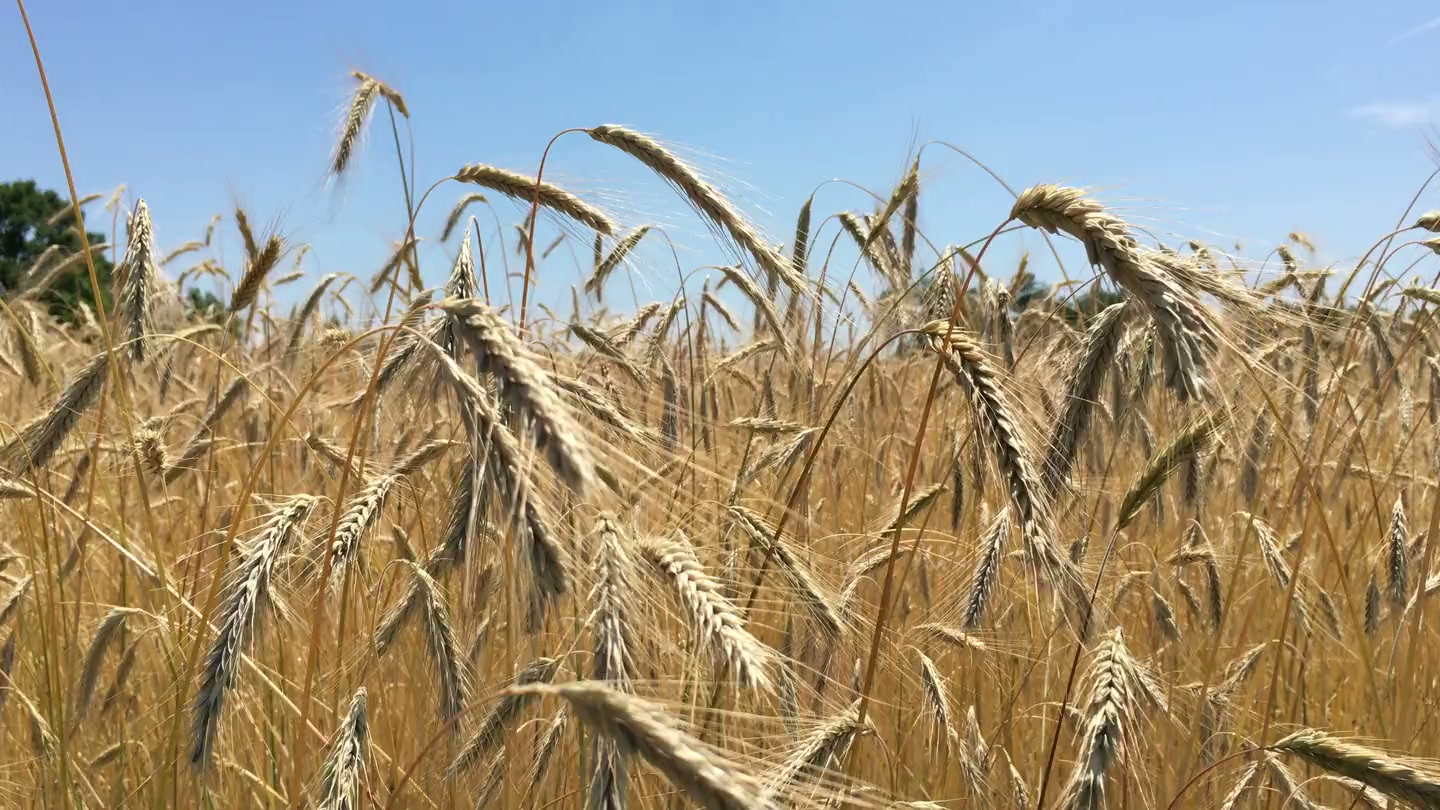
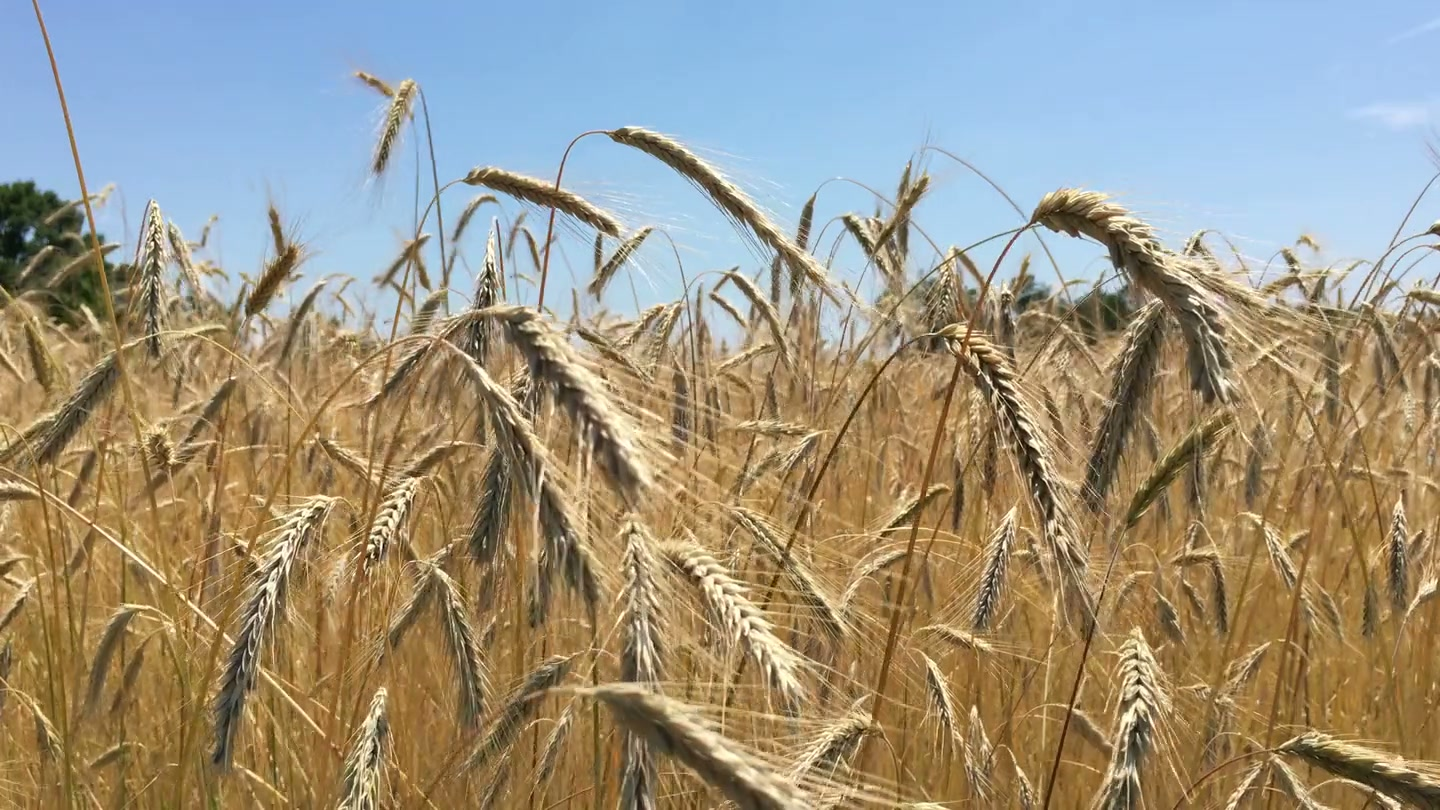
fix(preloader): synchronize SSR initial state to eliminate hydration mismatch

diff --git a/components/motion/preloader.tsx b/components/motion/preloader.tsx
@@ -68,12 +68,12 @@ function PreloaderAnimation({ onComplete }: { onComplete: () => void }) {
     }
   }, [bgLoaded, videoReady]);
 
-  // Safety fallback if video is slow or blocked
+  // Safety fallback if video is slow or blocked (2.5s)
   useEffect(() => {
     const timer = setTimeout(() => {
       setVideoReady(true);
       setStartAnimation(true);
-    }, 600);
+    }, 2500);
     return () => clearTimeout(timer);
   }, []);
 
@@ -81,7 +81,7 @@ function PreloaderAnimation({ onComplete }: { onComplete: () => void }) {
     setDims({ w: window.innerWidth, h: window.innerHeight });
   }, []);
 
-  // Wait for hero video readiness (or resolve immediately on non-video pages / mobile)
+  // Wait for hero video readiness
   useEffect(() => {
     let resolved = false;
     const resolve = () => {
@@ -97,24 +97,24 @@ function PreloaderAnimation({ onComplete }: { onComplete: () => void }) {
 
     window.addEventListener('hero-video-ready', resolve);
 
-    const checkTimer = setTimeout(() => {
+    const checkInterval = setInterval(() => {
       const video = document.querySelector('video');
       const isDesktop = window.innerWidth >= 768;
-      if (!video || !isDesktop || (video && video.readyState >= 1)) {
+      if (!isDesktop || (video && video.readyState >= 2)) {
         resolve();
       }
     }, 50);
 
-    const maxTimer = setTimeout(resolve, 800);
+    const maxTimer = setTimeout(resolve, 2500);
 
     return () => {
       window.removeEventListener('hero-video-ready', resolve);
-      clearTimeout(checkTimer);
+      clearInterval(checkInterval);
       clearTimeout(maxTimer);
     };
   }, []);
 
-  // When animation starts, schedule the dismissal
+  // When animation starts, schedule dismissal
   useEffect(() => {
     if (startAnimation) {
       const timer = setTimeout(() => {
@@ -221,7 +221,7 @@ function PreloaderAnimation({ onComplete }: { onComplete: () => void }) {
             />
           </div>
 
-          {/* STATIC CSS FALLBACK */}
+          {/* STATIC CSS FALLBACK: Instant paint during SSR / initial document load */}
           <div
             className="absolute inset-0 w-full h-full pointer-events-none transition-opacity duration-300 ease-out"
             style={{
@@ -269,15 +269,11 @@ export default function Preloader() {
 
   useEffect(() => {
     setMounted(true);
-
     if (isHome) {
       const seen = sessionStorage.getItem("agri_home_preloader_seen");
       if (!seen && !hasRunHomePreloader) {
         setIsVisible(true);
         hasRunHomePreloader = true;
-        try {
-          sessionStorage.setItem("agri_home_preloader_seen", "true");
-        } catch (e) {}
       } else {
         setIsVisible(false);
       }
@@ -286,10 +282,18 @@ export default function Preloader() {
     }
   }, [isHome]);
 
-  // Always return null during SSR, initial hydration, and on any subpage
   if (!mounted || !isVisible || !isHome) {
     return null;
   }
 
-  return <PreloaderAnimation onComplete={() => setIsVisible(false)} />;
+  return (
+    <PreloaderAnimation
+      onComplete={() => {
+        setIsVisible(false);
+        try {
+          sessionStorage.setItem("agri_home_preloader_seen", "true");
+        } catch (e) {}
+      }}
+    />
+  );
 }
